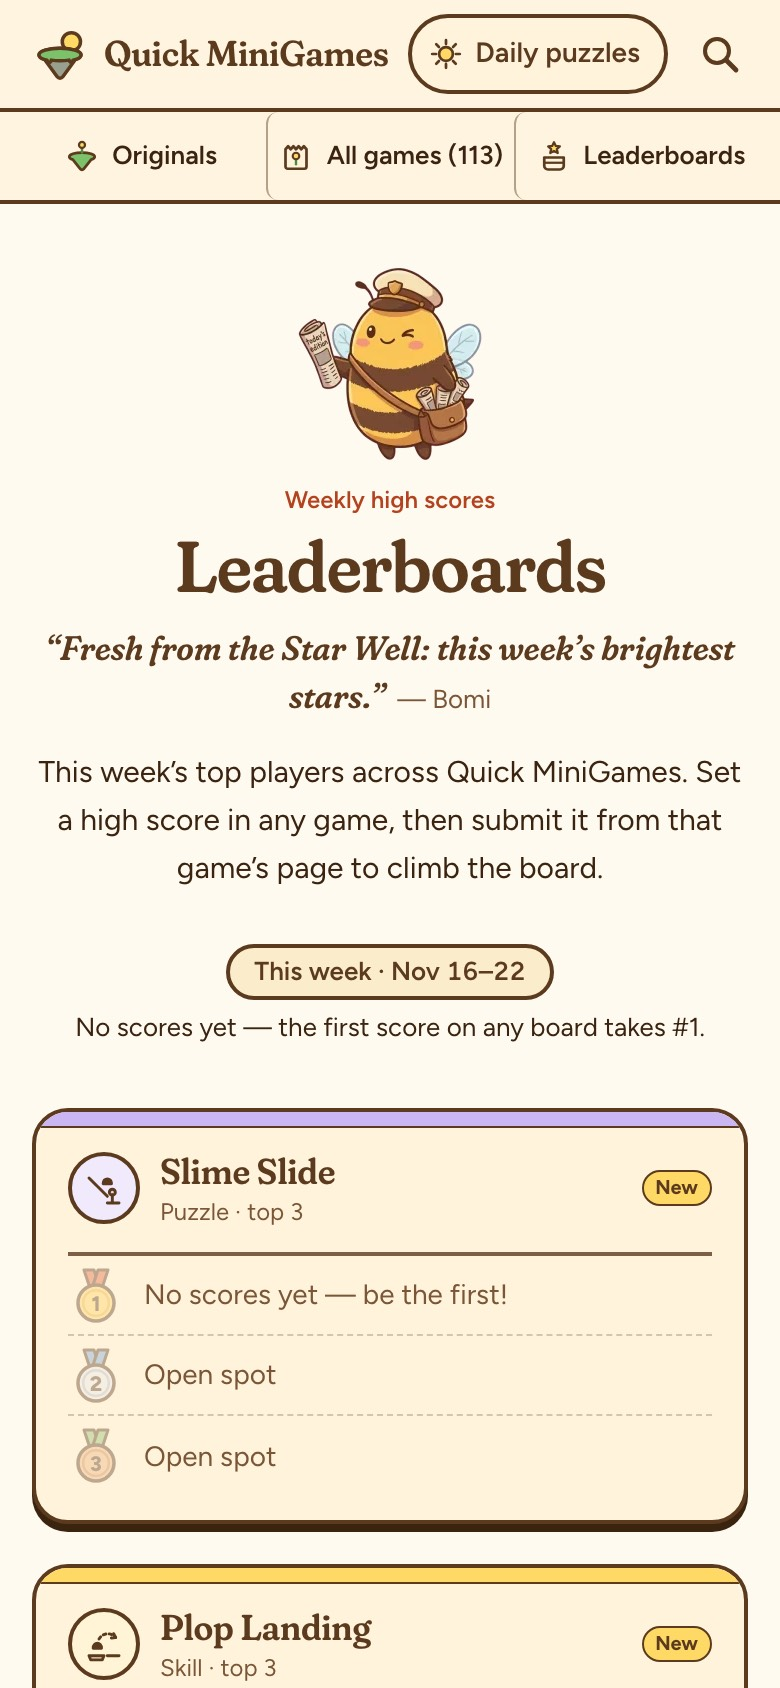
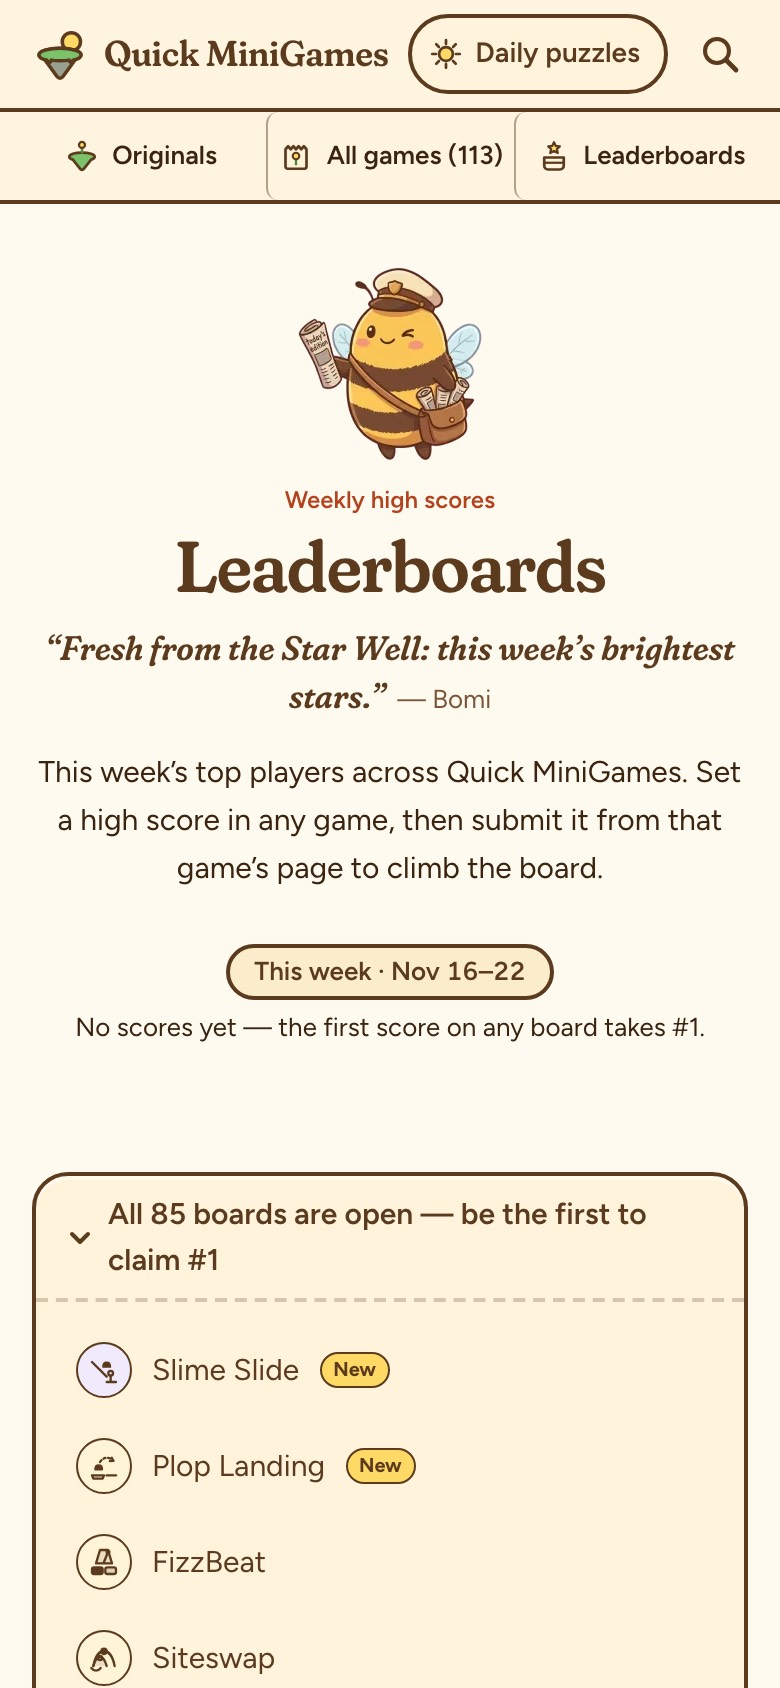
fix(leaderboards): 독립 리뷰 반영 — 실패 CLS·빈 주 펼친 목록·카드 key·h2·메달 낭독·e2e CLS

Changed region(s): [[0.0308, 0.6469, 0.9846, 1.0]]

diff --git a/src/components/LeaderboardsHub.tsx b/src/components/LeaderboardsHub.tsx
@@ -54,58 +54,66 @@ export function LeaderboardsHub() {
 
   if (!available) {
     return (
-      <div
-        data-testid="lb-unavailable"
-        className="mx-auto mt-2 max-w-md rounded-[18px] border-2 border-garden-ink bg-garden-cream px-5 py-6 text-center shadow-[var(--garden-highlight),var(--garden-shadow-seed)]"
-      >
-        <p className="font-display text-[20px] leading-7 font-semibold">The scoreboard is resting</p>
-        <p className="mt-2 text-[15px] leading-6 text-garden-ink-deep">
-          Leaderboards are temporarily unavailable. Play a game and check back soon.
-        </p>
-        <Link
-          href="/#all-games"
-          className={`mt-4 inline-flex h-11 items-center rounded-full border-2 border-garden-ink bg-garden-cream-2 px-4 text-[14px] font-semibold ${ring}`}
+      // 로딩 카드(85장)가 줄어든 뒤에도 아래 설명이 첫 화면으로 끌려오지 않게 같은 최소 높이(CLS)
+      <div className="min-h-[100svh]">
+        <div
+          data-testid="lb-unavailable"
+          className="mx-auto mt-2 max-w-md rounded-[18px] border-2 border-garden-ink bg-garden-cream px-5 py-6 text-center shadow-[var(--garden-highlight),var(--garden-shadow-seed)]"
         >
-          Browse all games
-        </Link>
+          <p className="font-display text-[20px] leading-7 font-semibold">The scoreboard is resting</p>
+          <p className="mt-2 text-[15px] leading-6 text-garden-ink-deep">
+            Leaderboards are temporarily unavailable. Play a game and check back soon.
+          </p>
+          <Link
+            href="/#all-games"
+            className={`mt-4 inline-flex h-11 items-center rounded-full border-2 border-garden-ink bg-garden-cream-2 px-4 text-[14px] font-semibold ${ring}`}
+          >
+            Browse all games
+          </Link>
+        </div>
       </div>
     )
   }
 
-  // 기록이 하나도 없는 주: 모든 보드를 빈 카드로 그대로 둔다(로딩 때와 같은 자리 — 접힌 목록으로 줄이면 아래 글이 화면으로 올라와 CLS)
+  // 기록이 하나도 없는 주: 카드 대신 펼친 목록 하나(85장 빈 카드는 390에서 19,000px). 허브 최소 높이 덕에 줄어도 CLS 없음
   const weekEmpty = boards !== null && active.length === 0
-  const shown = boards === null || weekEmpty ? empty : active
+  const shown = boards === null ? empty : active
+  const isCurrent = label?.startsWith('This week') ?? false
 
   return (
     // 최소 한 화면 높이: 보드가 적은 주에도 데이터가 온 뒤 아래 설명·FAQ가 첫 화면으로 끌려 올라오지 않는다(CLS)
     <div className="min-h-[100svh]">
       {/* 주 라벨 — 데이터가 오기 전에도 같은 높이(56px, 두 줄 고정)를 잡아 둔다(CLS 0) */}
       <p data-testid="lb-week" className="mb-7 flex h-14 flex-col items-center justify-center gap-1 text-center text-[13px] leading-5">
-        {label ? (
-          <>
-            <span className="whitespace-nowrap rounded-full border-2 border-garden-ink bg-garden-cream-2 px-3 leading-6 font-semibold tabular-nums">
-              {label}
-            </span>
-            {weekEmpty ? (
-              <span data-testid="lb-empty-week" className="text-garden-ink-deep">
-                No scores yet — the first score on any board takes #1.
-              </span>
-            ) : (
-              <span className="text-garden-ink-soft">New boards Monday, 00:00 UTC</span>
-            )}
-          </>
+        {label && (
+          <span className="whitespace-nowrap rounded-full border-2 border-garden-ink bg-garden-cream-2 px-3 leading-6 font-semibold tabular-nums">
+            {label}
+          </span>
+        )}
+        {weekEmpty ? (
+          <span data-testid="lb-empty-week" className="text-garden-ink-deep">
+            No scores yet — the first score on any board takes #1.
+          </span>
+        ) : label ? (
+          <span className="text-garden-ink-soft">{isCurrent ? 'New boards Monday, 00:00 UTC' : 'Refreshing for the new week…'}</span>
         ) : null}
       </p>
+      {/* 로딩 알림은 한 곳만(카드마다 두면 85번 읽힌다) */}
+      <p role="status" className="sr-only">
+        {boards === null ? 'Loading scores…' : ''}
+      </p>
       <ul className="grid grid-cols-1 gap-5 sm:grid-cols-2 lg:grid-cols-3" data-testid="lb-boards" aria-busy={boards === null}>
-        {/* key = 자리 번호: 로딩 카드 → 데이터 카드가 같은 DOM 자리에서 내용만 바뀐다(slug key면 화면 밖 카드가 위로 '이동'해 CLS로 잡힌다) */}
+        {/* li key = 자리 번호(slug key면 화면 밖 카드가 위로 '이동'해 CLS로 잡힌다), 카드 key = slug(다른 게임이 되면 새로 마운트 —
+            링크 포커스·NewBadge 상태가 이전 게임 것으로 남지 않게. 새 노드는 layout shift로 세지 않는다) */}
         {shown.map((slug, i) => (
           <li key={i}>
-            <BoardCard slug={slug} rows={boards === null ? null : (boards[slug] ?? [])} />
+            <BoardCard key={slug} slug={slug} rows={boards === null ? null : (boards[slug] ?? [])} />
           </li>
         ))}
       </ul>
-      {!weekEmpty && boards !== null && empty.length > 0 && (
+      {boards !== null && empty.length > 0 && (
         <details
+          open={weekEmpty || undefined}
           className="group mt-8 rounded-[18px] border-2 border-garden-ink bg-garden-cream shadow-[var(--garden-highlight),var(--garden-shadow-seed)]"
           data-testid="lb-empty"
         >
@@ -115,7 +123,7 @@ export function LeaderboardsHub() {
             <svg aria-hidden="true" viewBox="0 0 12 12" width={12} height={12} className="shrink-0 transition-transform group-open:rotate-90 motion-reduce:transition-none">
               <path d="M4 2l4 4-4 4" fill="none" stroke="currentColor" strokeWidth="2" strokeLinecap="round" strokeLinejoin="round" />
             </svg>
-            {empty.length} boards still empty — be the first to claim #1
+            {weekEmpty ? `All ${empty.length} boards are open — be the first to claim #1` : `${empty.length} boards still empty — be the first to claim #1`}
           </summary>
           <ul className="grid grid-cols-1 gap-x-4 gap-y-1 border-t-2 border-dashed border-garden-ink/25 px-3 py-3 sm:grid-cols-2 lg:grid-cols-3">
             {empty.map((slug) => {
@@ -174,7 +182,7 @@ function BoardCard({ slug, rows }: { slug: string; rows: ScoreRow[] | null }) {
           <GameIcon slug={slug} className="h-5 w-5" />
         </span>
         <span className="min-w-0 flex-1">
-          <span className="font-display block truncate text-[18px] leading-6 font-semibold tracking-[-0.01em]">{title}</span>
+          <h2 className="font-display truncate text-[18px] leading-6 font-semibold tracking-[-0.01em]">{title}</h2>
           <span className="block text-[12px] leading-4 text-garden-ink-soft">
             {meta.category} · top 3{unit && unit !== 'Score' ? ` · ${unit}` : ''}
           </span>
@@ -191,7 +199,6 @@ function BoardCard({ slug, rows }: { slug: string; rows: ScoreRow[] | null }) {
                 <>
                   <span aria-hidden="true" className="h-7 w-7 shrink-0 rounded-full bg-garden-cream-2" />
                   <span aria-hidden="true" className="h-[22px] flex-1 rounded-full bg-garden-cream-2 bg-clip-content py-[5px]" />
-                  {i === 0 && <span className="sr-only">Loading scores…</span>}
                 </>
               ) : r ? (
                 <>
@@ -201,10 +208,11 @@ function BoardCard({ slug, rows }: { slug: string; rows: ScoreRow[] | null }) {
                 </>
               ) : (
                 <>
-                  <span className="inline-flex shrink-0 opacity-40">
+                  <span aria-hidden="true" className="inline-flex shrink-0 opacity-40">
                     <RankMedal rank={i + 1} />
                   </span>
                   <span className="min-w-0 flex-1 truncate text-[14px] text-garden-ink-soft">
+                    <span className="sr-only">{['1st', '2nd', '3rd'][i]} place: </span>
                     {i === 0 ? 'No scores yet — be the first!' : 'Open spot'}
                   </span>
                 </>

diff --git a/e2e/leaderboards.spec.ts b/e2e/leaderboards.spec.ts
@@ -1,4 +1,7 @@
 import { expect, test, type Page, type Route } from '@playwright/test'
+import { orderBoards } from '../src/lib/leaderboardOrder'
+import { gameMeta } from '../src/lib/games/gameMeta'
+import { LEADERBOARD_GAMES } from '../src/lib/leaderboard'
 
 /**
  * /leaderboards 정원 틀(리디자인 v2, R6 이월 — 머리 보미).
@@ -110,9 +113,12 @@ for (const viewport of [
       await expect(page.locator('main')).not.toContainText('2026-W47')
       await expect(page.locator('main .font-pixel')).toHaveCount(0)
 
-      // 점수 있는 보드 3개 먼저(최신 순 정렬은 orderBoards 그대로), 나머지는 접힌 목록
+      // 점수 있는 보드 3개만 카드로, 순서 = orderBoards(예전 정렬 그대로), 나머지는 접힌 목록
       const cards = page.getByTestId('lb-board')
       await expect(cards).toHaveCount(3)
+      const expected = orderBoards(Object.keys(LEADERBOARD_GAMES), BOARDS, gameMeta).active
+      expect(await cards.evaluateAll((els) => els.map((e) => e.getAttribute('data-slug')))).toEqual(expected)
+      await expect(cards.first().getByRole('heading', { level: 2 })).toBeVisible()
       const snake = page.locator('[data-testid="lb-board"][data-slug="snake"]')
       await expect(snake.locator('svg[data-medal]')).toHaveCount(3)
       await expect(snake.getByRole('img', { name: '1st place' })).toBeVisible()
@@ -154,15 +160,16 @@ for (const viewport of [
       expect(fails).toEqual([])
     })
 
-    test('빈 주: 기록 0 → 주 라벨 아래 안내 + 모든 보드가 빈 카드로 제자리(접힌 목록 없음)', async ({ page }) => {
+    test('빈 주: 기록 0 → 주 라벨 아래 안내 + 카드 없이 펼친 전체 목록(44px 링크)', async ({ page }) => {
       await mockBoards(page, { week: WEEK, boards: {} })
       await page.goto('/leaderboards')
       await expect(page.getByTestId('lb-empty-week')).toBeVisible()
       await expect(page.getByTestId('lb-boards')).toHaveAttribute('aria-busy', 'false')
-      expect(await page.getByTestId('lb-board').count()).toBeGreaterThan(10)
-      await expect(page.getByTestId('lb-board').first()).toContainText('No scores yet — be the first!')
-      await expect(page.getByTestId('lb-empty')).toHaveCount(0)
-      await expect(page.locator('svg[data-medal]').first()).toBeVisible()
+      await expect(page.getByTestId('lb-board')).toHaveCount(0)
+      const list = page.getByTestId('lb-empty')
+      await expect(list).toHaveAttribute('open', '')
+      await expect(list.locator('summary')).toContainText(`All ${Object.keys(LEADERBOARD_GAMES).length} boards are open`)
+      await expect(list.getByRole('link')).toHaveCount(Object.keys(LEADERBOARD_GAMES).length)
       await expect(page.locator('img[data-mascot]')).toHaveCount(1)
       expect(await page.evaluate(() => document.documentElement.scrollWidth)).toBeLessThanOrEqual(viewport.width)
       expect((await contrastFailures(page)).fails).toEqual([])
@@ -175,16 +182,41 @@ for (const viewport of [
       await expect(list).toHaveAttribute('aria-busy', 'true')
       const n = await page.getByTestId('lb-board').count()
       expect(n).toBeGreaterThan(10)
-      await expect(page.getByText('Loading scores…').first()).toBeAttached()
+      await expect(page.getByRole('status')).toHaveText('Loading scores…')
       await expect(list).toHaveAttribute('aria-busy', 'false', { timeout: 10_000 })
       await expect(page.getByTestId('lb-board')).toHaveCount(3)
     })
 
     test('API 실패: 정원 안내 카드', async ({ page }) => {
-      await mockBoards(page, { error: 'x' }, { status: 500 })
+      await mockBoards(page, { error: 'x' }, { status: 500, delayMs: 300 })
       await page.goto('/leaderboards')
       await expect(page.getByTestId('lb-unavailable')).toBeVisible()
       await expect(page.getByTestId('lb-unavailable').getByRole('link', { name: 'Browse all games' })).toHaveAttribute('href', '/#all-games')
+    })
+
+    test('CLS: 로딩 → 데이터 / 빈 주 / 실패 모두 ≤ 0.05 (예전 0.53~0.65)', async ({ page }) => {
+      await page.addInitScript(() => {
+        ;(window as unknown as { __cls: number }).__cls = 0
+        new PerformanceObserver((l) => {
+          for (const e of l.getEntries() as unknown as { value: number; hadRecentInput: boolean }[])
+            if (!e.hadRecentInput) (window as unknown as { __cls: number }).__cls += e.value
+        }).observe({ type: 'layout-shift', buffered: true })
+      })
+      const few = { snake: BOARDS.snake }
+      for (const [body, status] of [
+        [{ week: WEEK, boards: BOARDS }, 200],
+        [{ week: WEEK, boards: few }, 200],
+        [{ week: WEEK, boards: {} }, 200],
+        [{ error: 'x' }, 500],
+      ] as const) {
+        await page.unrouteAll()
+        await mockBoards(page, body, { status, delayMs: 400 })
+        await page.goto('/leaderboards')
+        await expect(page.getByTestId('lb-boards').or(page.getByTestId('lb-unavailable')).first()).toBeVisible()
+        await page.waitForTimeout(900)
+        const cls = await page.evaluate(() => (window as unknown as { __cls: number }).__cls)
+        expect(cls, JSON.stringify(body).slice(0, 40)).toBeLessThanOrEqual(0.05)
+      }
     })
   })
 }

diff --git a/src/lib/leaderboardWeek.ts b/src/lib/leaderboardWeek.ts
@@ -2,7 +2,7 @@ import { isoWeek } from './leaderboard'
 
 /**
  * 리더보드 주간 표기(리디자인 v2, /leaderboards 정원 틀). 서버가 주는 ISO 주 문자열("2026-W47")을
- * 사람 말("This week · Nov 17–23")로 바꾼다. 주 = ISO-8601, UTC 월요일 00:00 ~ 일요일 끝(서버 isoWeek와 같은 기준).
+ * 사람 말("This week · Nov 16–22")로 바꾼다. 주 = ISO-8601, UTC 월요일 00:00 ~ 일요일 끝(서버 isoWeek와 같은 기준).
  * 달 이름은 고정 영어 표(로캘·Intl 차이로 서버 HTML과 클라이언트가 달라지지 않게).
  */
 const MONTHS = ['Jan', 'Feb', 'Mar', 'Apr', 'May', 'Jun', 'Jul', 'Aug', 'Sep', 'Oct', 'Nov', 'Dec'] as const
@@ -19,12 +19,12 @@ export function isoWeekStart(week: string): Date | null {
   const jan4 = Date.UTC(year, 0, 4)
   const dow = new Date(jan4).getUTCDay() || 7
   const start = new Date(jan4 - (dow - 1) * DAY + (w - 1) * 7 * DAY)
-  // 53주차가 없는 해(예: 2026-W53 → 2027-W01)는 거른다
+  // 53주차가 없는 해(예: 2025-W53 → 2026-W01)는 거른다
   if (isoWeek(start) !== week) return null
   return start
 }
 
-/** 월요일 시작일 → "Nov 17–23" / 달이 넘어가면 "Nov 30 – Dec 6" (연도가 넘어가도 같은 모양: "Dec 29 – Jan 4"). */
+/** 월요일 시작일 → "Nov 16–22" / 달이 넘어가면 "Nov 30 – Dec 6" (연도가 넘어가도 같은 모양: "Dec 29 – Jan 4"). */
 export function formatWeekRange(start: Date): string {
   const end = new Date(start.getTime() + 6 * DAY)
   const sm = MONTHS[start.getUTCMonth()]
@@ -34,7 +34,7 @@ export function formatWeekRange(start: Date): string {
 }
 
 /**
- * 머리 라벨. 지금(UTC) 주와 같으면 "This week · Nov 17–23", 다르면(캐시가 자정을 넘긴 경우 등) "Week of Nov 10–16".
+ * 머리 라벨. 지금(UTC) 주와 같으면 "This week · Nov 16–22", 다르면(캐시가 자정을 넘긴 경우 등) "Week of Nov 10–16".
  * 형식이 틀린 값은 null(라벨을 안 그린다).
  */
 export function weekLabel(week: string, now: Date): string | null {

diff --git a/DECISIONS.md b/DECISIONS.md
@@ -202,6 +202,7 @@
 - **카드 = '연감 한 쪽'**: 크림·2px ink·판 그림자, 윗단 띠·아이콘 disc = 카테고리 꽃색 4종(`CATEGORY_TINT`, 홈 씨앗 봉투와 같은 표). 게임별 랜덤 네온 accent 폐기. 제목 Fraunces 18, 부제 "Skill · top 3 · 단위". 1~3위 = 벡터 메달 `RankMedal`(리본 + 원판 + 숫자, 이모지 없음), 빈 자리는 흐린 메달 + "Open spot" — 카드는 늘 3칸이라 높이가 같다. 점수 tabular-nums.
 - **주 표기**: 서버 ISO 주 → "This week · Nov 16–22"(UTC 월~일, `src/lib/leaderboardWeek.ts`, 달 이름 고정 표) + "New boards Monday, 00:00 UTC". 지금 주와 다르면 "Week of …". 지시서 예시 "Nov 17–23"은 2026-W47의 요일이 하루 밀린 값이라 실제 계산(16–22)을 따랐다.
 - **머리 보미 deliver 96px**(H1 위, eager — 첫 화면, 사본 `public/art/mascots/bomi-deliver-192.webp` 9.2KB) + 한 줄 "Fresh from the Star Well: this week's brightest stars." — Bomi(lines.md #41 신설, 바이블 '별우물 = 리더보드, 소식은 보미'). 페이지 마스코트 1마리, 광고 자리 없음(개념서 광고 표: 리더보드 상단 광고 없음) → D6 400px은 해당 없음(e2e로 광고·`data-ad-after` 0 고정).
-- **상태**: 로딩 = 모든 보드 카드가 같은 높이 막대로(제목·링크는 정적 HTML — 예전처럼), 빈 주(기록 0) = 모든 보드를 빈 카드 그대로 + 주 라벨 둘째 줄 안내(접힌 목록으로 줄이지 않음), API 실패 = 정원 안내 카드 + All games 44px.
-- **CLS**: 예전 페이지는 데이터가 오면 0.53~0.65(390·1440, 400ms 지연 흉내). ① 리스트 key = 자리 번호(slug key면 화면 밖 카드가 위로 '이동'으로 잡힘) ② 주 라벨 56px 고정 ③ 허브 최소 높이 100svh(보드가 적은 주에도 FAQ가 첫 화면으로 끌려오지 않게) ④ 빈 주에 카드 유지.
-- 버린 안: 개념서의 꽃 단상(포디움) 일러스트(새 그림 필요 — 그림 예산 밖, 다음 후보), 게임별 탭(한 화면에 보드 전부가 지금 허브의 역할), garden 스코프 재사용(게임 페이지 게이트·토큰 재매핑과 섞임).
+- **상태**: 로딩 = 모든 보드 카드가 같은 높이 막대로(제목·링크는 정적 HTML — 예전처럼, 화면 읽기 알림은 `role=status` 한 곳), 빈 주(기록 0) = 주 라벨 둘째 줄 안내 + 카드 없이 **펼친** 전체 목록(44px 링크), API 실패 = 정원 안내 카드 + All games 44px. 주가 지금과 다르면 둘째 줄 'Refreshing for the new week…'.
+- **CLS**: 예전 페이지는 데이터가 오면 0.53~0.65(390·1440, 400ms 지연 흉내). ① li key = 자리 번호(slug key면 화면 밖 카드가 위로 '이동'으로 잡힘), 카드 key = slug(다른 게임이 되면 새로 마운트 — 포커스·New 뱃지가 이전 게임 것으로 남지 않게, 새 노드는 shift로 안 셈) ② 주 라벨 56px 고정 ③ 허브(실패 카드 포함) 최소 높이 100svh — 보드가 적거나 0이거나 실패해도 FAQ가 첫 화면으로 끌려오지 않는다. e2e가 네 경우(보드 3·1·0·실패) CLS ≤ 0.05를 고정.
+- 리뷰 반영(독립 리뷰 11-20, 7.5/10): 실패 상태 CLS 구멍, 빈 주 85장 빈 카드(390 약 19,000px·빈 줄 255번 낭독) → 펼친 목록, key 부작용, 카드 제목 h2, 흐린 메달 aria-hidden + '2nd place:' 읽기 글자, 정렬 순서 단언·CLS 회귀 e2e. 대비 검사 함수 공용화(garden-frame.spec과 중복)는 R7c가 그 파일을 쓰는 중이라 다음으로.
+- 버린 안: 빈 주에 모든 보드를 빈 카드로(위 리뷰), 개념서의 꽃 단상(포디움) 일러스트(새 그림 필요 — 그림 예산 밖, 다음 후보), 게임별 탭(한 화면에 보드 전부가 지금 허브의 역할), garden 스코프 재사용(게임 페이지 게이트·토큰 재매핑과 섞임).

diff --git a/HANDOFF.md b/HANDOFF.md
@@ -1,5 +1,13 @@
 # 인계: 라운드18 신규 5종(게임 110종) + 도전 링크 + /guides(공략 15·기사 6) (2026-10-10)
 
+## ▶ 2026-11-20 /leaderboards 정원 틀 + 머리 보미 인계 (브랜치 `shift/leaderboards-garden`)
+
+**한 줄:** /leaderboards가 크림 정원 틀이 됐다 — 연감 카드(카테고리 꽃색 4종), 1~3위 벡터 메달(`RankMedal`, 🥇 이모지 폐기), "This week · Nov 16–22"(UTC ISO 주), 머리 보미 deliver 96px. 데이터·API·정렬·점수 형식·제출 로직 변경 0.
+- **코드**: `src/app/leaderboards/page.tsx`(`main[data-world="garden-hub"]` — 게임 페이지 `garden` 토큰 재매핑을 쓰지 않고 크림 클래스로 직접, globals.css는 body paper·신스웨이브/줄무늬 끄기만), `src/components/LeaderboardsHub.tsx`(카드·상태), `src/components/leaderboard/RankMedal.tsx`, `src/lib/leaderboardWeek.ts`(+test), `Mascot` `bomi-deliver`(사본 `public/art/mascots/bomi-deliver-192.webp` 9.2KB, eager), lines.md #41.
+- **상태**: 로딩 = 모든 보드 카드 막대(제목·링크 정적 HTML), 빈 주 = 펼친 전체 목록 + 안내 줄, 실패 = 정원 안내 카드. 허브 최소 높이 100svh.
+- **측정**: CLS 데이터 도착 0.53~0.65 → 0(390·1440, 보드 3·1·0·실패 e2e ≤0.05 고정), axe 위반 0, 이모지 0, 가로 스크롤 0, main 링크·요약 44px+, 자동 대비 실패 0. e2e `e2e/leaderboards.spec.ts`. 캡처 `docs/design/redesign-v2/leaderboards/`.
+- **함정**: ① 정적 serve엔 /api가 없어 이 페이지는 늘 실패 카드 — e2e·캡처는 `/api/leaderboards`를 흉내 낸다(시계 2026-11-20 고정 → W47) ② li key = 자리 번호, 카드 key = slug — 둘 다 slug로 돌리면 화면 밖 카드가 위로 '이동'으로 잡혀 CLS가 돌아온다 ③ 2026-W47은 11-16(월)~22 — "Nov 17–23"은 틀린 예시 ④ 페이지에 광고 자리 없음(D6 400px 해당 없음) — 광고를 넣으면 `data-ad-after`와 mascots식 거리 검사를 같이.
+- **⏭ 다음**: 개념서 '꽃 단상(포디움)' 일러스트(그림 예산), 대비 검사 함수 e2e 공용화(garden-frame.spec과 중복 — R7c가 그 파일을 쓰는 중이라 미룸), 내 줄 하이라이트(이름 저장 키 `lb:name`).
 ## ▶ 2026-11-20 10시 리뉴얼 R1 아케이드 시작 게이트 인계 (브랜치 `renewal/r1-arcade-gate`)
 
 **한 줄:** pong·space-shooter·tetris·flappy가 로드 즉시 시작하지 않고(수정 전 8초 방치: 퐁 0-7 패배·슈터 목숨 3→1), 탭 숨김 시 멈춰 기다리며(자동 재개 없음) Resume 3·2·1(1.2초), P·헤더 ⏸, 퐁 재서브 0.9초.
